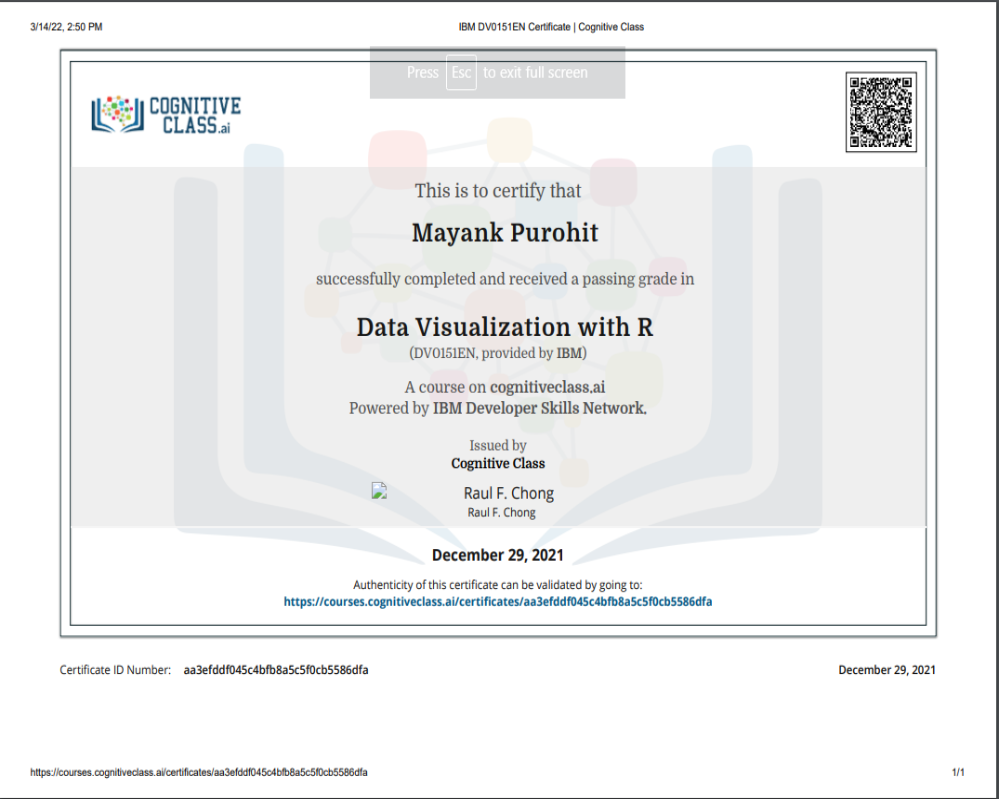
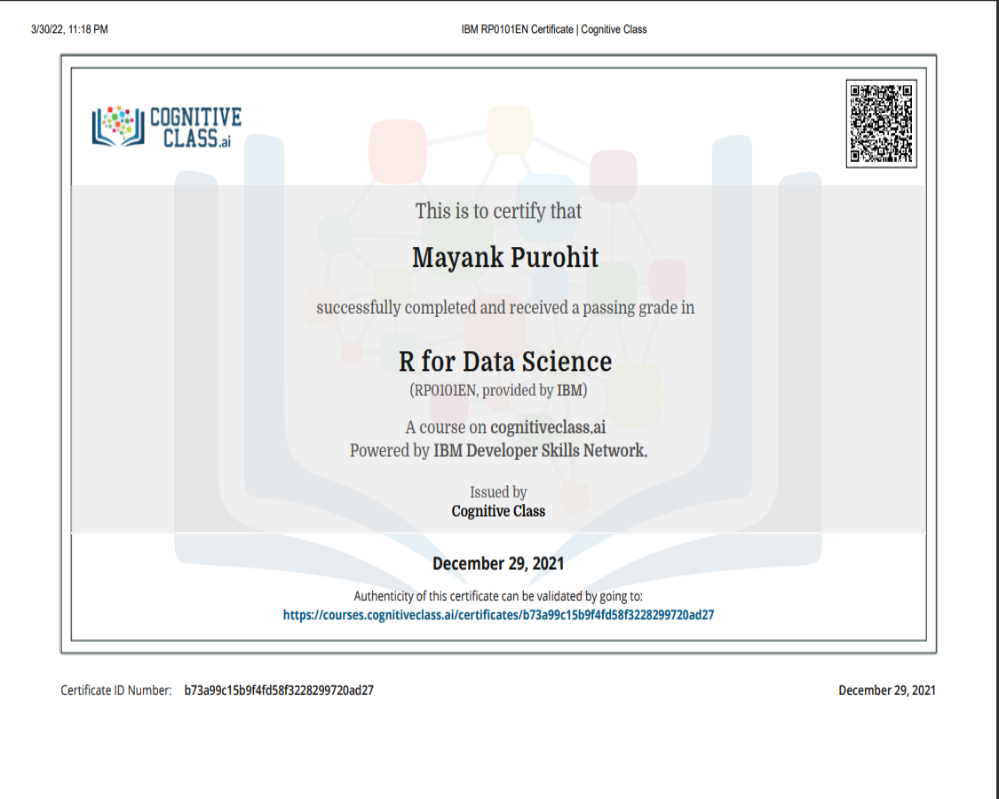
changed label and fixed links

diff --git a/index.html b/index.html
@@ -114,7 +114,7 @@
 
         <div class="section-title">
           <h2>Resume</h2>
-          <p>Resume lists educational background and professional work experience.</p>
+          <p>Resume lists educational background and professional work experiences.</p>
         </div>
 
         <div class="row">
@@ -295,7 +295,7 @@
                 <div class="portfolio-wrap">
                     <img src="assets/img/portfolio/google_analytics.png" class="img-fluid" alt="">
                     <div class="portfolio-links">
-                        <a href="portfolio-details.html" title="Google Analytics Certificate" style="font-size: 20px;">Google Data Analytics</a>
+                        <a href="https://www.coursera.org/account/accomplishments/specialization/certificate/MFHEKJJNL7X9" title="Google Analytics Certificate" style="font-size: 20px;">Google Data Analytics</a>
                     </div>
                 </div>
             </div>
@@ -304,7 +304,7 @@
                 <div class="portfolio-wrap">
                     <img src="assets/img/portfolio/data_science.png" class="img-fluid" alt="">
                     <div class="portfolio-links">
-                        <a href="portfolio-details.html" title="Google Analytics Certificate" style="font-size: 20px;">Google Data Analytics</a>
+                        <a href="https://courses.cognitiveclass.ai/certificates/4f5625b2164a4c42a88b56e12745b632" title="IBM Introduction to Data Science" style="font-size: 20px;">IBM Intro to Data Science</a>
                     </div>
                 </div>
             </div>
@@ -313,7 +313,7 @@
                 <div class="portfolio-wrap">
                     <img src="assets/img/portfolio/data_r.png" class="img-fluid" alt="">
                     <div class="portfolio-links">
-                        <a href="portfolio-details.html" title="Google Analytics Certificate" style="font-size: 20px;">Google Data Analytics</a>
+                        <a href="https://courses.cognitiveclass.ai/certificates/b73a99c15b9f4fd58f3228299720ad27" title="R for Data Science" style="font-size: 20px;">IBM R for Data Science</a>
                     </div>
                 </div>
             </div>
@@ -322,7 +322,7 @@
                 <div class="portfolio-wrap">
                     <img src="assets/img/portfolio/data_viz.png" class="img-fluid" alt="">
                     <div class="portfolio-links">
-                        <a href="portfolio-details.html" title="Google Analytics Certificate" style="font-size: 20px;">Google Data Analytics</a>
+                        <a href="https://courses.cognitiveclass.ai/certificates/aa3efddf045c4bfb8a5c5f0cb5586dfa" title="Data Visualization with R" style="font-size: 20px;">IBM Data Visualization with R</a>
                     </div>
                 </div>
             </div>
@@ -331,7 +331,7 @@
                 <div class="portfolio-wrap">
                     <img src="assets/img/portfolio/prob.png" class="img-fluid" alt="">
                     <div class="portfolio-links">
-                        <a href="portfolio-details.html" title="Google Analytics Certificate" style="font-size: 20px;">Google Data Analytics</a>
+                        <a href="https://olympus1.mygreatlearning.com/course_certificate/LDVTEDII" title="Probability for Data Science" style="font-size: 20px;">GL Probability for Data Science</a>
                     </div>
                 </div>
             </div>
@@ -340,7 +340,7 @@
                 <div class="portfolio-wrap">
                     <img src="assets/img/portfolio/numpy.png" class="img-fluid" alt="">
                     <div class="portfolio-links">
-                        <a href="portfolio-details.html" title="Google Analytics Certificate" style="font-size: 20px;">Google Data Analytics</a>
+                        <a href="https://www.credential.net/f156fce6-1237-4869-93a4-885a3e9be56c#gs.v7mh93" title="Upgrad Python Library" style="font-size: 20px;">Upgrad Numpy,Pandas</a>
                     </div>
                 </div>
             </div>
@@ -349,7 +349,7 @@
                 <div class="portfolio-wrap">
                     <img src="assets/img/portfolio/mysql.png" class="img-fluid" alt="">
                     <div class="portfolio-links">
-                        <a href="portfolio-details.html" title="Google Analytics Certificate" style="font-size: 20px;">Google Data Analytics</a>
+                        <a href="https://www.credential.net/7bbd9d45-9b75-4ea1-84f0-93a5b17c06db#gs.v7m95w" title="Upgrad Database Design MySQL" style="font-size: 20px;">Upgrad Database Design MySQL</a>
                     </div>
                 </div>
             </div>
